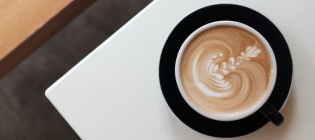
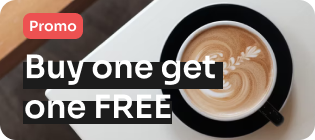
tabbar to start

diff --git a/lib/Screens/home.dart b/lib/Screens/home.dart
@@ -1,5 +1,8 @@
+import 'package:coffee_app/widgets/coustmer.dart';
+import 'package:coffee_app/widgets/menu.dart';
+import 'package:coffee_app/widgets/promotion.dart';
+import 'package:coffee_app/widgets/searchbar.dart';
 import 'package:flutter/material.dart';
-import 'package:google_fonts/google_fonts.dart';
 
 class HomePage extends StatelessWidget {
   const HomePage({Key? key});
@@ -7,87 +10,58 @@ class HomePage extends StatelessWidget {
   @override
   Widget build(BuildContext context) {
     return Scaffold(
-      body: Column(
-        children: [
-          Container(
-            decoration: BoxDecoration(
-              gradient: LinearGradient(
-                begin: Alignment.topRight,
-                end: Alignment.bottomLeft,
-                colors: [
-                  const Color.fromRGBO(19, 19, 19, 1),
-                  Color.fromRGBO(49, 49, 49, 1),
+      body: SingleChildScrollView(
+        child: Column(
+          children: [
+            Container(
+              width: double.infinity,
+              child: Stack(
+                children: [
+                  
+                      Container(
+                        decoration: const BoxDecoration(
+                          gradient: LinearGradient(
+                            begin: Alignment.topRight,
+                            end: Alignment.bottomLeft,
+                            colors: [
+                              Color.fromRGBO(19, 19, 19, 1),
+                              Color.fromRGBO(49, 49, 49, 1),
+                            ],
+                          ),
+                        ),
+                        height: 280,
+                        width: double.infinity,
+                      ),
+                  
+                  const Padding(
+                      padding: const EdgeInsets.symmetric(horizontal: 30),
+                      child: Column(
+                        children: [
+                          SizedBox(
+                            height: 63,
+                          ),
+                          Coustmer(),
+                          SizedBox(
+                            height: 28,
+                          ),
+                          SearchWidget(),
+                          SizedBox(
+                            height: 24,
+                          ),
+                          Promotion(),
+                        ],
+                      )),
                 ],
               ),
             ),
-            height: 280,
-            width: double.infinity,
-            child: 
-
-
-// profile details part   start
-            
-            Stack(
-              children: [
- // location               
-                Padding(
-                  padding: const EdgeInsets.only(left: 30,right: 30,top: 63),
-                  child: Row(crossAxisAlignment: CrossAxisAlignment.start,
-                    mainAxisAlignment: MainAxisAlignment.spaceBetween,
-                    children: [
-                      Column(
-                        crossAxisAlignment: CrossAxisAlignment.start,
-                        
-                        children: [
-                          Text(
-                            'Location',
-                            style: GoogleFonts.sora(
-                              fontSize: 12,
-                              fontWeight: FontWeight.w400,
-                              color: Color.fromRGBO(183, 183, 183, 1),
-                            ),
-                          ),
-                          InkWell(
-                            onTap: () {
-                              // Handle location dropdown tap
-                            },
-                            child: Row(
-                              children: [
-                                Text(
-                                  'Bilzen, Tanjungbalai',
-                                  style: TextStyle(color: Colors.white),
-                                ),
-                                Icon(
-                                  Icons.arrow_drop_down_rounded,
-                                  color: Colors.white,
-                                ),
-                              ],
-                            ),
-                          ),
-                         
-                        ],
-                      ),
- //profile image                 
-                       Image.asset(
-                            'assets/images/Image.png',
-                            height: 44,
-                            width: 44,
-                          ),
-                    ],
-                  ),
-                ),
-//search        
-                TextField(
-                  decoration: InputDecoration(
-                    filled: true,
-                    fillColor: Color.fromARGB(255,49,49,49)
-                  ),
-                )
-
-              ],
+            Container(
+              height:24,
+             
             ),
-          ),
-        ],
+          Container(margin:EdgeInsets.symmetric(horizontal: 30),child: Text(''))
+
+          ],
+        ),
       ),
     );
   }

diff --git a/lib/widgets/coustmer.dart b/lib/widgets/coustmer.dart
@@ -1,0 +1,52 @@
+import 'package:flutter/material.dart';
+import 'package:google_fonts/google_fonts.dart';
+
+class Coustmer extends StatelessWidget {
+  const Coustmer({super.key});
+
+  @override
+  Widget build(BuildContext context) {
+    return Row(
+                        crossAxisAlignment: CrossAxisAlignment.start,
+                        mainAxisAlignment: MainAxisAlignment.spaceBetween,
+                        children: [
+                          Column(
+                            crossAxisAlignment: CrossAxisAlignment.start,
+                            children: [
+                              Text(
+                                'Location',
+                                style: GoogleFonts.sora(
+                                  fontSize: 12,
+                                  fontWeight: FontWeight.w400,
+                                  color: const Color.fromRGBO(183, 183, 183, 1),
+                                ),
+                              ),
+                              InkWell(
+                                onTap: () {
+                                  // Handle location dropdown tap
+                                },
+                                child: const Row(
+                                  children: [
+                                    Text(
+                                      'Bilzen, Tanjungbalai',
+                                      style: TextStyle(color: Colors.white),
+                                    ),
+                                    Icon(
+                                      Icons.arrow_drop_down_rounded,
+                                      color: Colors.white,
+                                    ),
+                                  ],
+                                ),
+                              ),
+                            ],
+                          ),
+                          //profile image
+                          Image.asset(
+                            'assets/images/Image.png',
+                            height: 44,
+                            width: 44,
+                          ),
+                        ],
+                      );
+  }
+}

diff --git a/lib/widgets/menu.dart b/lib/widgets/menu.dart
@@ -1,0 +1,42 @@
+import 'package:coffee_app/models/coffee.dart';
+import 'package:flutter/material.dart';
+
+class Menu extends StatefulWidget {
+  const Menu({super.key});
+
+  @override
+  State<Menu> createState() => _MenuState();
+}
+
+class _MenuState extends State<Menu> with SingleTickerProviderStateMixin {
+  @override
+  Widget build(BuildContext context) {
+  final TabController _tabController = TabController(length:Category.values.length, vsync: this);
+
+
+    return Column(
+      children: [
+        TabBar(
+          controller: _tabController
+          ,tabs: [
+          
+          Tab(text: Category.Cappuccino.toString(),),
+          Tab(text: Category.Machiato.toString(),),
+          Tab(text: Category.Latte.toString(),),
+          Tab(text: Category.Americano.toString(),)
+        ]),
+        SizedBox(height: 28,),
+        TabBarView(controller: _tabController,children: [
+            GridView.builder(gridDelegate: SliverGridDelegateWithFixedCrossAxisCount(crossAxisCount: 2,crossAxisSpacing: 20,mainAxisSpacing: 16), itemBuilder:(context, index) => Center(child: Text(Category.values[index].toString(), style: TextStyle(color: Colors.grey),)), ),
+                        GridView.builder(gridDelegate: SliverGridDelegateWithFixedCrossAxisCount(crossAxisCount: 2,crossAxisSpacing: 20,mainAxisSpacing: 16), itemBuilder:(context, index) => Center(child: Text(Category.values[index].toString(), style: TextStyle(color: Colors.grey),)), ),
+
+            GridView.builder(gridDelegate: SliverGridDelegateWithFixedCrossAxisCount(crossAxisCount: 2,crossAxisSpacing: 20,mainAxisSpacing: 16), itemBuilder:(context, index) => Center(child: Text(Category.values[index].toString(), style: TextStyle(color: Colors.grey),)), ),
+                        GridView.builder(gridDelegate: SliverGridDelegateWithFixedCrossAxisCount(crossAxisCount: 2,crossAxisSpacing: 20,mainAxisSpacing: 16), itemBuilder:(context, index) => Center(child: Text(Category.values[index].toString(), style: TextStyle(color: Colors.grey),)), )
+
+
+        ])
+      ],
+    );
+  
+  }
+}

diff --git a/lib/widgets/searchbar.dart b/lib/widgets/searchbar.dart
@@ -1,0 +1,48 @@
+import 'package:flutter/material.dart';
+import 'package:font_awesome_flutter/font_awesome_flutter.dart';
+import 'package:iconly/iconly.dart';
+
+class SearchWidget extends StatefulWidget {
+  const SearchWidget({super.key});
+
+  @override
+  State<SearchWidget> createState() => _SearchWidgetState();
+}
+
+class _SearchWidgetState extends State<SearchWidget> {
+  @override
+  Widget build(BuildContext context) {
+    return SizedBox(
+      height: 52,
+      child: TextField(
+        textAlignVertical: TextAlignVertical.bottom,
+        decoration: InputDecoration(
+            border: OutlineInputBorder(
+                borderRadius: BorderRadius.all(Radius.circular(16)),
+                borderSide: BorderSide.none),
+            enabled: true,
+            filled: true,
+            fillColor: Color.fromARGB(255, 49, 49, 49),
+            hintStyle: TextStyle(color: Color.fromRGBO(152, 152, 152, 1)),
+            hintText: 'Search coffee',
+            prefixIconColor: Color.fromARGB(255, 255, 255, 255),
+            prefixIcon: Icon(
+              IconlyLight.search,
+            ),
+            suffixIcon: Container(
+              margin: EdgeInsets.all(4),
+              height: 44,
+              width: 44,
+              decoration: BoxDecoration(
+                  color: Color.fromRGBO(198, 124, 78, 1),
+                  borderRadius: BorderRadius.circular(12)),
+              child: Icon(
+                FontAwesomeIcons.sliders,
+                size: 20,
+                color: Colors.white,
+              ),
+            )),
+      ),
+    );
+  }
+}

diff --git a/lib/widgets/promotion.dart b/lib/widgets/promotion.dart
@@ -1,0 +1,37 @@
+import 'package:flutter/material.dart';
+import 'package:google_fonts/google_fonts.dart';
+
+class Promotion extends StatelessWidget {
+  const Promotion({super.key});
+
+  @override
+  Widget build(BuildContext context) {
+    return Container(
+      
+      decoration: BoxDecoration(
+          image: DecorationImage(
+              fit: BoxFit.fill, image: AssetImage('assets/images/banner.png')),
+          borderRadius: BorderRadius.circular(16)),
+      height: 140,
+      width: double.infinity,
+      child: 
+          Padding(
+            padding: const EdgeInsets.only(left: 23,top: 13,right: 232,bottom: 101),
+            child: Container(
+              alignment: Alignment.center,
+                
+                decoration: BoxDecoration(
+                    borderRadius: BorderRadius.circular(8),
+                    color: Color.fromRGBO(237, 81, 81, 1)),
+                child: Text(
+                  'Promo',
+                  style: GoogleFonts.sora(
+                      color: Colors.white,
+                      fontSize: 14,
+                      fontWeight: FontWeight.w600),
+                )),
+          ),
+          );
+        
+  }
+}

diff --git a/lib/main.dart b/lib/main.dart
@@ -13,7 +13,7 @@ class MyApp extends StatelessWidget {
   Widget build(BuildContext context) {
     return MaterialApp(
       theme: ThemeData(
-        scaffoldBackgroundColor: Color.fromARGB(255, 196, 196, 196),
+        scaffoldBackgroundColor: Color.fromRGBO(249, 249, 249, 1),
        primaryColor: Color.fromARGB(255, 198, 124, 78)
       ),
       home: NavigationScreen(),

diff --git a/lib/models/coffee.dart b/lib/models/coffee.dart
@@ -1,7 +1,7 @@
 
 import 'package:flutter/material.dart';
 
-enum Category {
+enum  Category {
   Cappuccino,
   Machiato,
   Latte,
